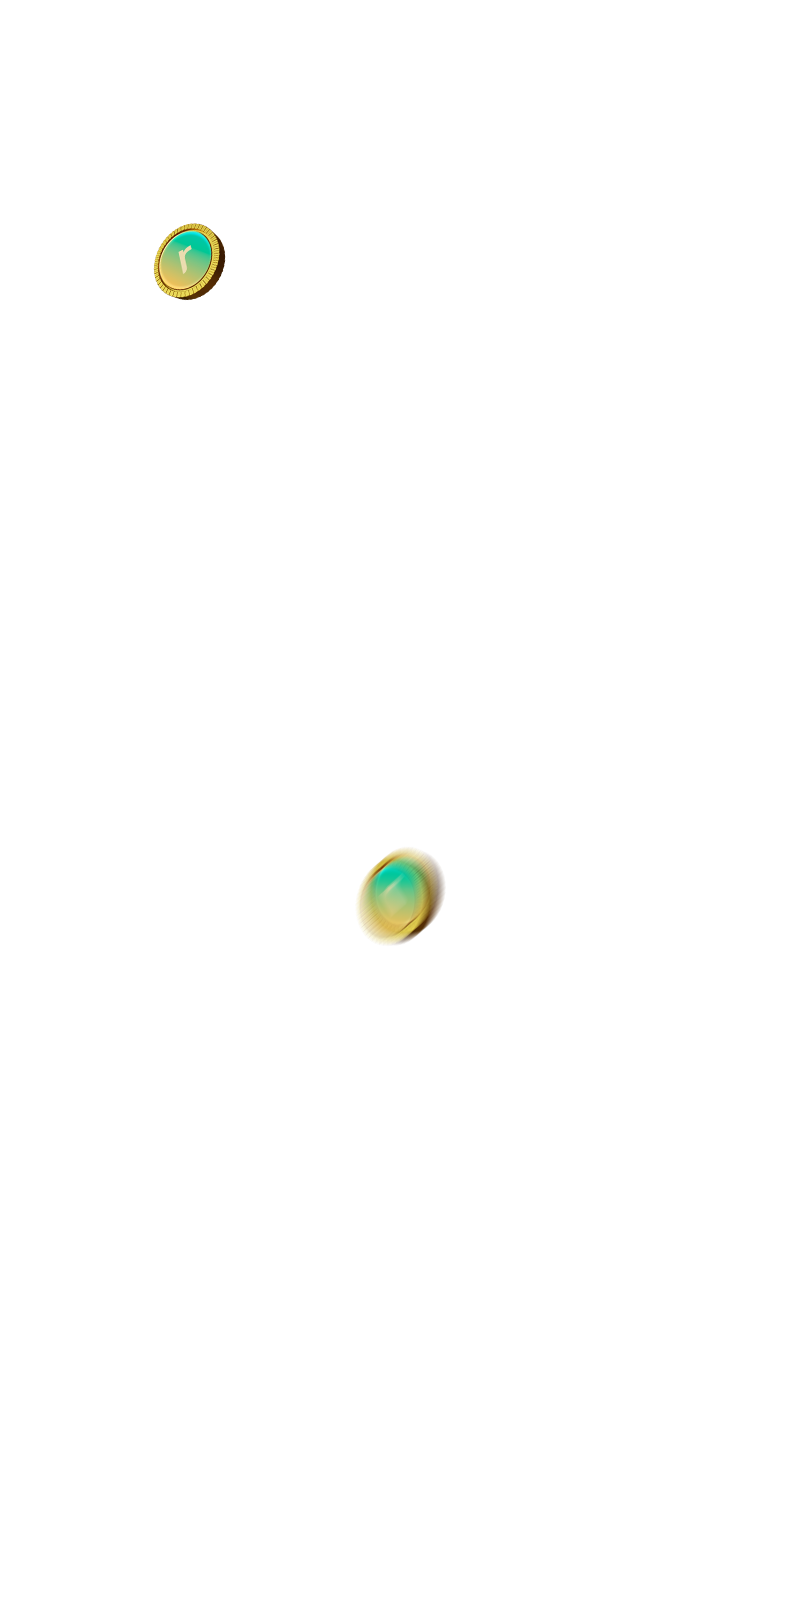
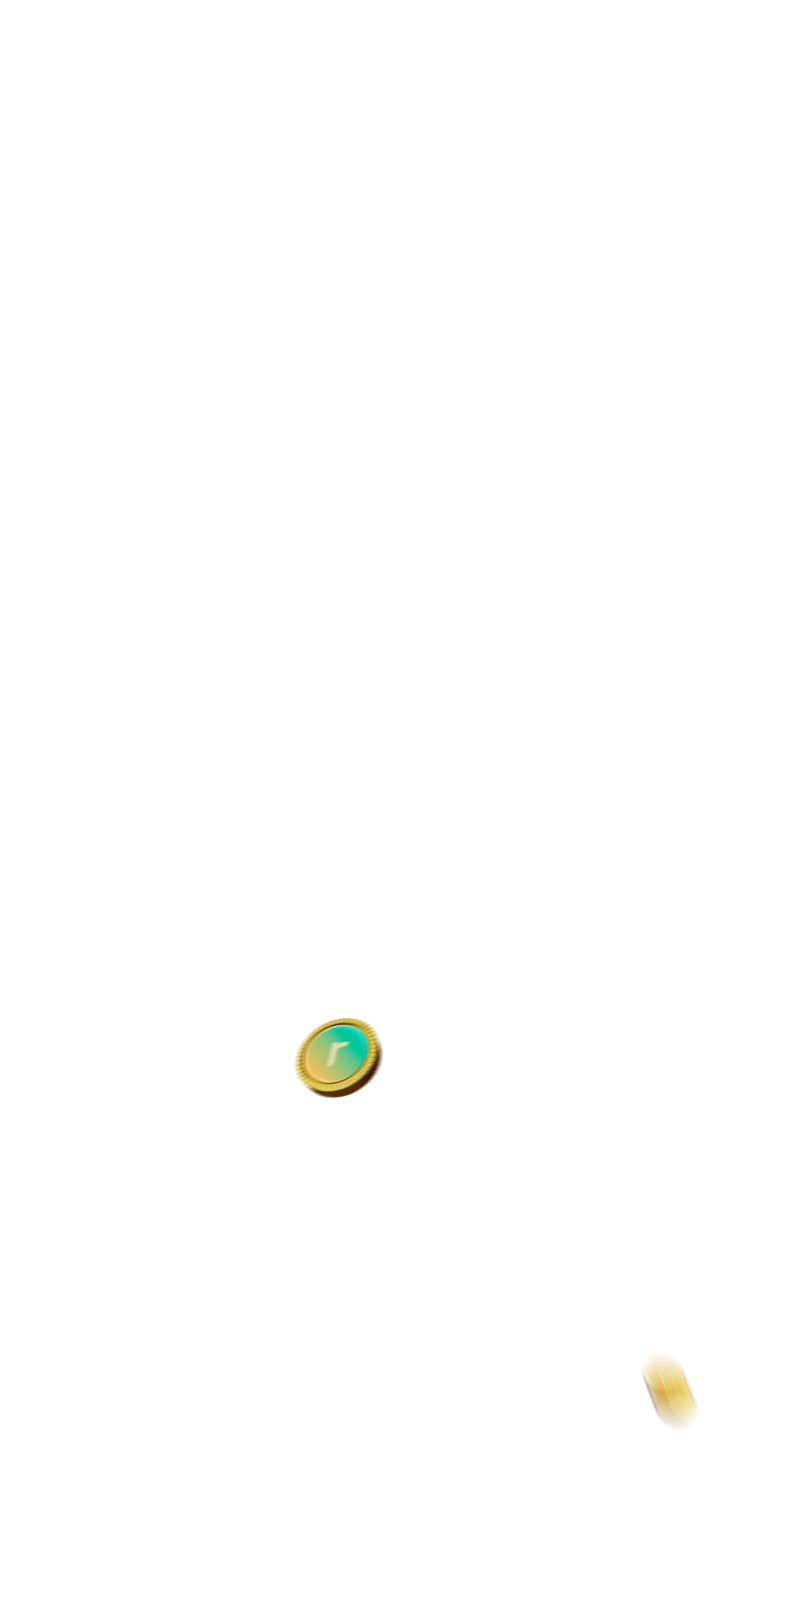
Add files via upload

diff --git a/style.css b/style.css
@@ -109,7 +109,7 @@ h1 {
 } .section02 {
     color: var(--c01);
     background-color: var(--c05);
-    background: linear-gradient(45deg, #a5a6a1, #F1EFE9 85%);
+    background: linear-gradient(-155deg, #b5c4cd, #e9edf1 85%);
     position: relative;
     box-shadow: 0 -1rem 7rem -4rem var(--c02);
 } .section03 {
@@ -178,15 +178,22 @@ h1 {
 .section02 p {
     font-weight: 900;
     padding: 0 1rem;
-    font-size: clamp(0.9rem, 4.4vw, 1.2rem);
+    font-size: clamp(0.8rem, 4.2vw, 1.2rem);
     margin: 0 auto 1rem auto;
     width: clamp(18rem, 90vw, 37rem);
     box-sizing: border-box;
-    line-height: 1.6rem;
+    line-height: clamp(1rem, 6.2vw, 1.8rem);
+    text-shadow: 0 0 1px transparent;
+    text-rendering: optimizeLegibility;
+    color: #222;
 } .section02 p:last-child {
     margin-bottom: 6rem;
 } .section02 p:first-of-type {
     margin-top: 6vw;
+} .section02 p b {
+    background: var(--c04);
+    padding: 0.1rem 0.4rem;
+    margin: 0 0.1rem;
 }
 
 h2 {
@@ -249,7 +256,7 @@ h2 {
 } input:hover {
     overflow: hidden;
 } input::placeholder {
-    font-size: clamp(0.7rem, 4vw, 1.4rem);
+    font-size: clamp(0.7rem, 5vw, 1.4rem);
     color: #37342F;
     transition: opacity 0.15s ease;
 } button {
@@ -451,7 +458,7 @@ h1 {
     }
     h4 {
         font-size: clamp(1.4rem, 1.7vw, 1.8rem);
-        width: clamp(23rem, 27vw, 28rem);
+        width: clamp(23rem, 28vw, 28rem);
     }
 
     .mobile_hidden h5 {
@@ -462,11 +469,12 @@ h1 {
     }
 
     .section02 p {
-        font-size: clamp(0.9rem, 4.4vw, 1rem);
+        font-size: clamp(0.9rem, 1vw, 1rem);
+        line-height: clamp(0.9rem, 4.4vw, 1.6rem);
         margin: 0 0 1rem 0;
-        width: clamp(11rem, 36vw, 26rem);
+        width: clamp(22rem, 36vw, 26rem);
         padding: 0;
-        text-rendering: optimizeLegibility;
+        letter-spacing: 1px;
     }
 
     #doggo01 {
@@ -487,10 +495,10 @@ h1 {
     }
 
     #rain_ctnr {
-        height: 80rem;
+        height: 110rem;
         width: 100%;
         position: relative;
-        top: -18rem;
+        top: -20rem;
         margin-bottom: -30rem;
         transform: none;
         right: 0;
@@ -511,10 +519,10 @@ h1 {
 
     .overflow01 {
         width: 100%;
-        height: 60rem;
+        height: 80rem;
         overflow: hidden;
         position: relative;
-        margin: -12rem 0 -22rem 0;
+        margin: -21rem 0 -25rem 0;
         right: -3rem;
     }
 }

diff --git a/index.html b/index.html
@@ -56,11 +56,11 @@
                     <source src="assets/video_fran.mp4" type="video/mp4">
                 </video>
 
-                <p>Banco do Viralata é a plataforma que irá permitir a qualquer um oferecer serviços financeiros, eliminando intermediários e recebendo retornos em seus investimentos.</p>
+                <p>Banco do Viralata é a plataforma que irá permitir a qualquer um oferecer serviços financeiros, <b>eliminando intermediários</b> e recebendo retornos em seus investimentos.</p>
                 
-                <p>Investidores podem se tornar pontos de venda de AURO, aceitando qualquer meio de pagamento em troca de AURO (incluindo PIX, cartão de crédito, débito, dinheiro ou qualquer outro meio de pagamento).</p>
+                <p>Investidores, comerciantes e instituições poderão se tornar <b>pontos de venda de AURO</b>, aceitando qualquer meio de pagamento em troca de AURO (incluindo <b>PIX</b>, cartão de crédito, débito, dinheiro ou qualquer outro meio de pagamento).</p>
 
-                <p>Quer participar das rodadas de teste do Banco? Inscreva-se!</p>
+                <p>Quer participar das <b>rodadas de teste</b> do nosso Banco? Inscreva-se com seu telefone abaixo!</p>
             </div>
 
             <div class="flex02 zindex_3">

diff --git a/main.js b/main.js
@@ -55,13 +55,13 @@ const rain05 = document.querySelector('#rain_ctnr img:nth-child(5)')
 
 
 document.body.onscroll = function() {
-    rain01.style.transform = "translateY(" + (window.pageYOffset / 10) + "px)";
+    rain01.style.transform = "translateY(" + (window.pageYOffset / 6) + "px)";
     
-    rain02.style.transform = "translateY(" + (window.pageYOffset / 5) + "px)";
+    rain02.style.transform = "translateY(" + (window.pageYOffset / 3.8) + "px)";
     
     rain03.style.transform = "translateY(" + (window.pageYOffset / 4) + "px)";
     
-    rain04.style.transform = "translateY(" + (window.pageYOffset / 10) + "px)";
+    rain04.style.transform = "translateY(" + (window.pageYOffset / 16) + "px)";
     
-    rain05.style.transform = "translateY(" + (window.pageYOffset / 7) + "px)";
+    rain05.style.transform = "translateY(" + (window.pageYOffset / 8) + "px)";
 }
